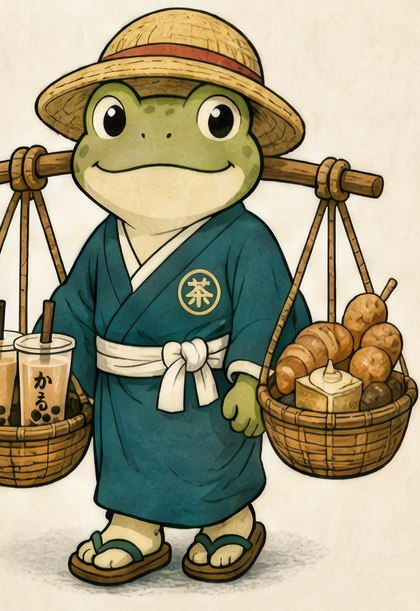
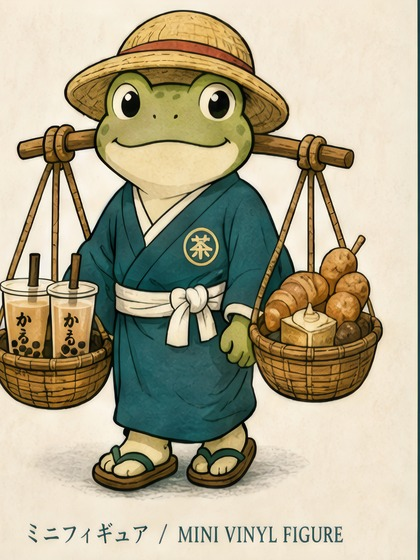
fix: recrop stickers/merch with full-width crops and bg-color padding
Stickers: giữ full column width (1481px), remove chỉ 100px text ở bottom,
pad 2 bên bằng cream (243,231,207) thành vuông 1696×1696 → resize 500×500.
Object-position đổi sang center center.

Merch: h_pad=0 (full column), y crop 290..2823 (gần full product height),
pad nhỏ để đạt 3:4 → resize 420×560.
CSS .merch-img đổi height:320px → aspect-ratio:3/4;height:auto để
container khớp ảnh, không bị cắt chi tiết.

diff --git a/web/kaeru.html b/web/kaeru.html
@@ -318,12 +318,12 @@
     .story-visual { width: 100%; border-radius: 8px; overflow: hidden; display: block; }
     .story-visual img { width: 100%; height: auto; display: block; border-radius: 8px; }
 
-    /* Sticker photos — hình vuông crop sẵn, hiển thị trong vòng tròn */
+    /* Sticker photos — hình vuông 500×500 có padding, hiển thị trong vòng tròn */
     .stk-badge.stk-photo { padding: 0; overflow: hidden; }
-    .stk-img { width: 100%; height: 100%; object-fit: cover; object-position: center 20%; display: block; }
+    .stk-img { width: 100%; height: 100%; object-fit: cover; object-position: center center; display: block; }
 
-    /* Merch photos — object-fit cover, container 320px */
-    .merch-photo { width: 100%; height: 100%; object-fit: cover; object-position: top center; display: block; }
+    /* Merch photos — 420×560 (3:4), container dùng aspect-ratio khớp */
+    .merch-photo { width: 100%; height: 100%; object-fit: cover; display: block; }
 
     /* ============================= */
     /* MENU SECTION                  */
@@ -398,7 +398,7 @@
     .merch-grid { display: grid; grid-template-columns: repeat(3,1fr); gap: 22px; }
     .merch-card { text-align: center; }
     .merch-img {
-      height: 320px; background: var(--cream-dk); border-radius: 4px;
+      aspect-ratio: 3/4; height: auto; background: var(--cream-dk); border-radius: 4px;
       display: flex; align-items: center; justify-content: center;
       border: 1px solid rgba(168,155,128,.2); margin-bottom: 14px;
       transition: transform .3s, box-shadow .3s;
